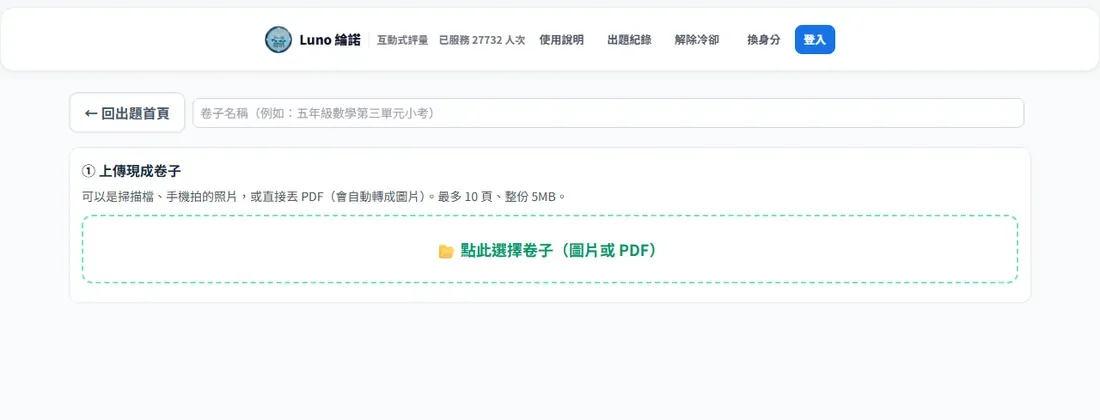
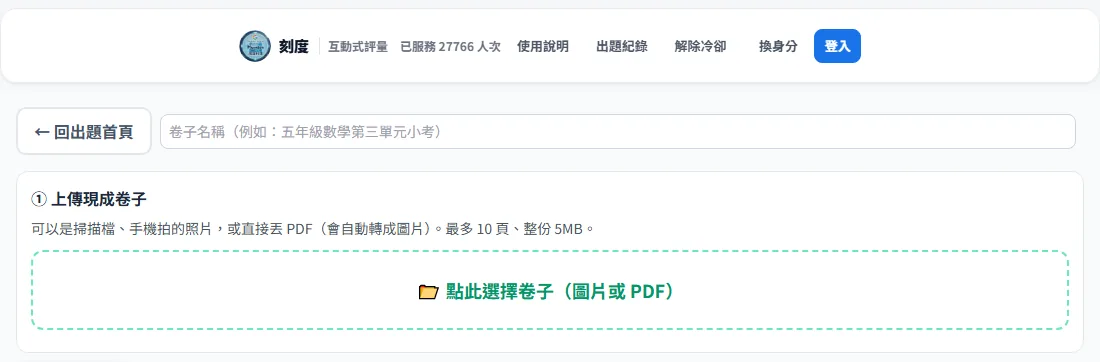
重拍說明書原卷上傳圖

diff --git a/public/manual.html b/public/manual.html
@@ -196,7 +196,7 @@
 <section class="m-chapter" id="paper">
     <h2><span class="m-no">6</span>老師：派現成的紙本卷</h2>
     <p>手邊已經有出好的卷子（段考卷、講義、習作），不用重打，掃進來就能讓學生在平板或電腦上作答。第 1 步選「派現成的紙本卷」進入，這個功能不用登入。</p>
-    <figure class="m-fig"><img src="manual/img/paper-upload.webp" alt="原卷直上畫面，上傳現成卷子" loading="lazy" width="1100" height="420"><figcaption>派現成的紙本卷</figcaption></figure>
+    <figure class="m-fig"><img src="manual/img/paper-upload.webp" alt="原卷直上畫面，上傳現成卷子" loading="lazy" width="1100" height="362"><figcaption>派現成的紙本卷</figcaption></figure>
     <ol>
         <li><b>上傳現成卷子</b>：掃描檔、手機拍的照片，或直接丟 PDF（會自動轉成圖片）。最多 10 頁、整份 5MB。</li>
         <li><b>標出作答位置</b>：按「AI 自動抓這一頁」先幫你框一輪，再用滑鼠或手指把框拖到正確位置；沒抓到的按「自己加一個框」，多的選起來按「刪除選取的框」。AI 抓不準很正常，用來省掉從零開始框的時間。</li>
